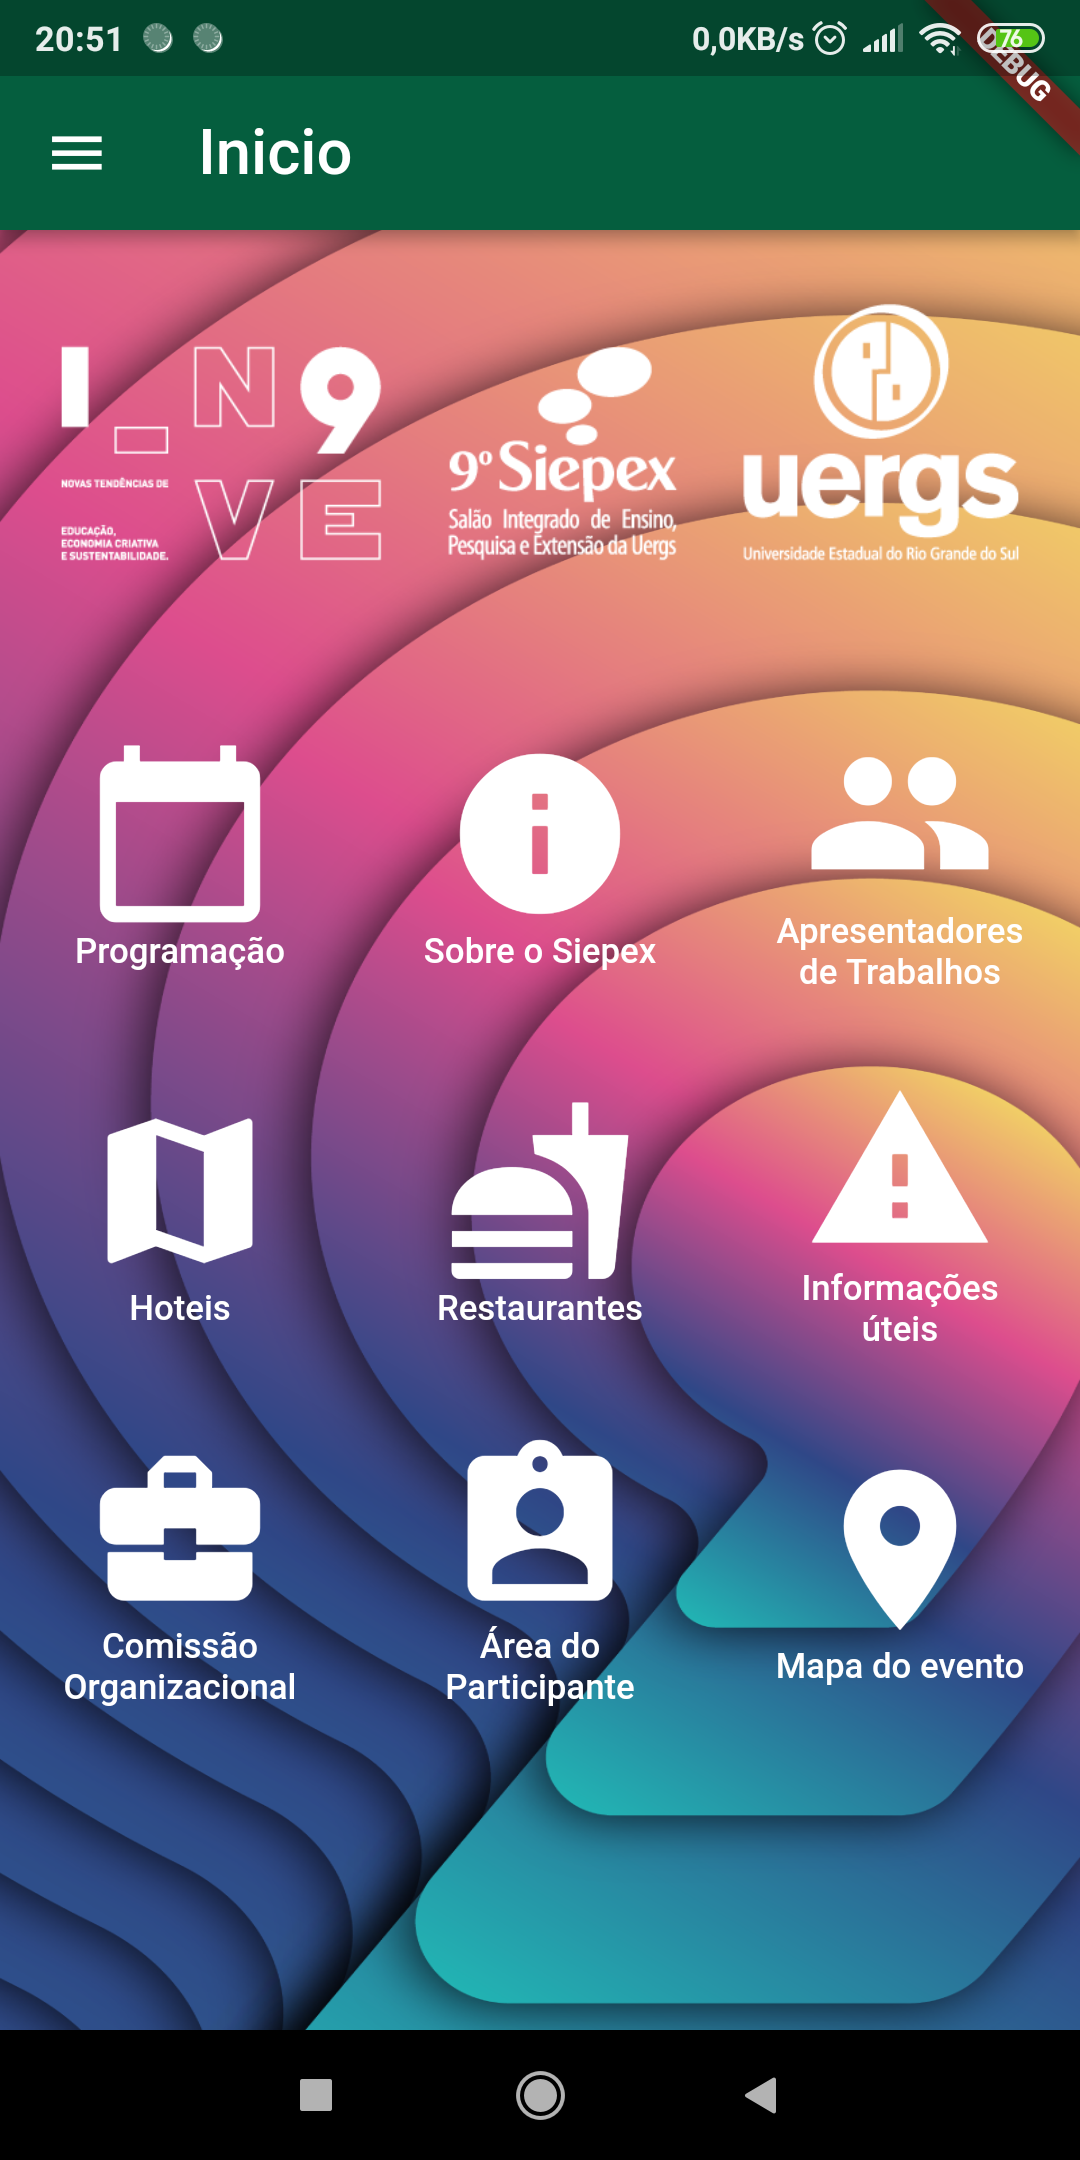
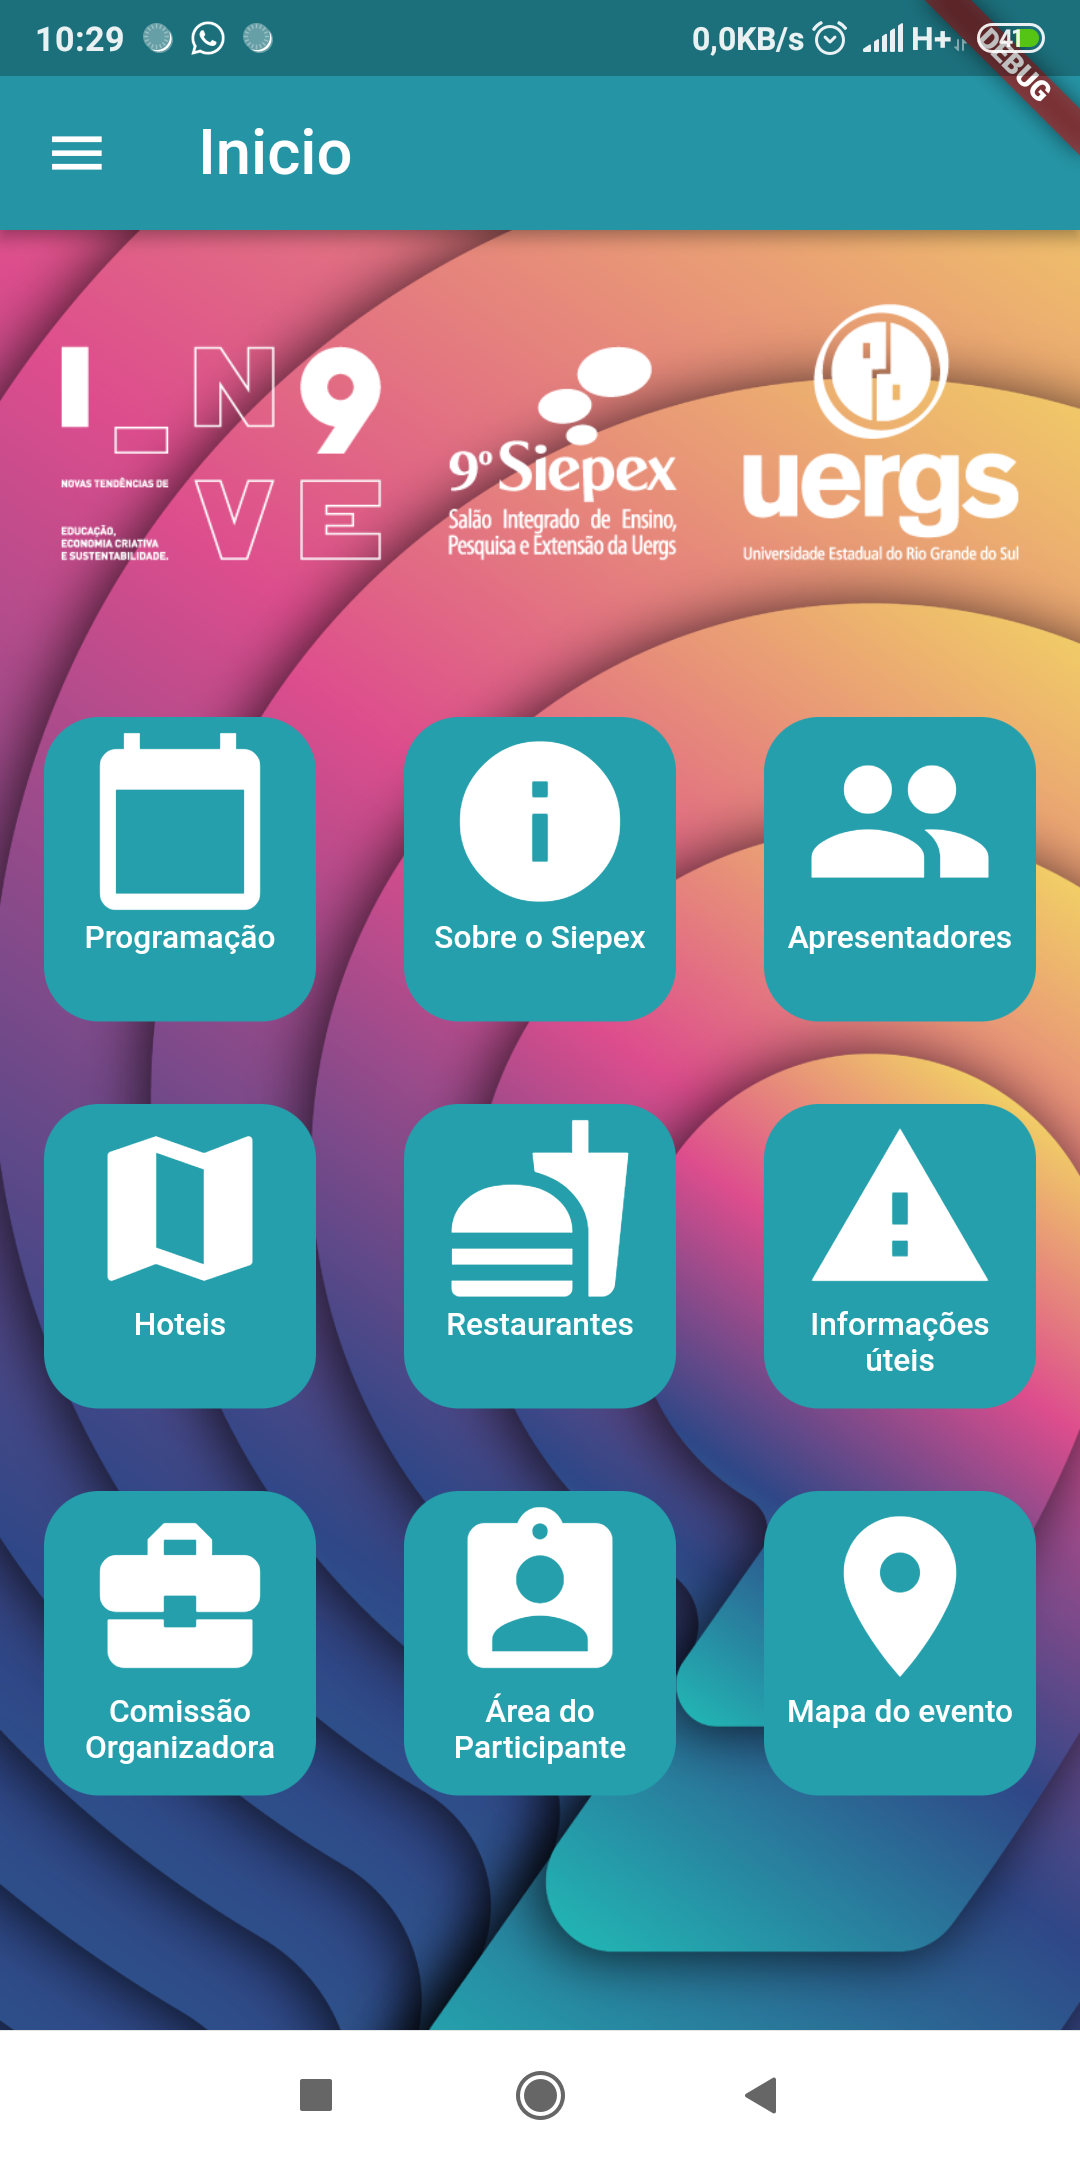
ajustes e prints

diff --git a/lib/src/info/info.dart b/lib/src/info/info.dart
@@ -91,11 +91,12 @@ class InfoPage extends StatelessWidget {
             }
           },
           child: Container(
-              // height: PercentageHelper.height(17, context),
-              // width: PercentageHelper.width(35, context),
               padding: EdgeInsets.all(10),
               decoration: BoxDecoration(
-                  border: Border.all(color: Colors.black),
+                  boxShadow: [
+                    BoxShadow(
+                        color: Colors.black54, spreadRadius: 0.8, blurRadius: 2)
+                  ],
                   color: Color(0xff249FAB),
                   borderRadius: BorderRadius.circular(20)),
               child: Column(

diff --git a/lib/main.dart b/lib/main.dart
@@ -53,9 +53,9 @@ class MyApp extends StatelessWidget {
         primaryTextTheme: Typography(platform: TargetPlatform.iOS).white,
         textTheme: Typography(platform: TargetPlatform.iOS).white,
         // backgroundColor: Colors.green[30],
-        // pageTransitionsTheme: PageTransitionsTheme(builders: {
-        //   TargetPlatform.android: CupertinoPageTransitionsBuilder(),
-        // }),
+        pageTransitionsTheme: PageTransitionsTheme(builders: {
+          TargetPlatform.android: CupertinoPageTransitionsBuilder(),
+        }),
       ),
       // home: TabsPage(),
     );

diff --git a/lib/src/inicio/itemButton.dart b/lib/src/inicio/itemButton.dart
@@ -23,7 +23,10 @@ Widget itemButton(GridItem item, BuildContext context,
         width: PercentageHelper.width(30, context),
         padding: EdgeInsets.all(3),
         decoration: BoxDecoration(
-            border: Border.all(color: Colors.black),
+            boxShadow: [
+              BoxShadow(color: Colors.black54, spreadRadius: 0.8, blurRadius: 2)
+            ],
+            // border: Border.all(color: Colors.black),
             color: Color(0xff249FAB),
             borderRadius: BorderRadius.circular(20)),
         child: Column(

diff --git a/lib/src/eventos/minicursos/minicursosView.dart b/lib/src/eventos/minicursos/minicursosView.dart
@@ -73,7 +73,9 @@ class _ListagemMinicursosState extends State<ListagemMinicursos> {
     print(viewMinicursos);
     if (carregou == false) {
       return Container(
-        child: SpinKitPouringHourglass(
+        //pourinhourglass
+        //fadingfour
+        child: SpinKitWave(
           color: Colors.blueAccent,
           size: 200,
         ),

diff --git a/lib/src/eventos/visitas/visitasView.dart b/lib/src/eventos/visitas/visitasView.dart
@@ -73,7 +73,7 @@ class _ListagemVisitasState extends State<ListagemVisitas> {
     print(viewVisitas);
     if (carregou == false) {
       return Container(
-        child: SpinKitPouringHourglass(
+        child: SpinKitWave(
           color: Colors.blueAccent,
           size: 200,
         ),

diff --git a/lib/src/inicio/inicio.dart b/lib/src/inicio/inicio.dart
@@ -20,6 +20,7 @@ class InicioPage extends StatelessWidget {
   Widget corpo(BuildContext context) {
     return Scaffold(
         appBar: AppBar(
+          elevation: 10,
           title: Text('Inicio'),
         ),
         drawer: HomeParticipante(),

diff --git a/android/app/src/main/java/com/example/siepex/MainActivity.java b/android/app/src/main/java/com/example/siepex/MainActivity.java
@@ -1,4 +1,4 @@
-package com.example.siepex;
+package br.edu.uergs.siepexApp;
 
 import android.os.Bundle;
 import io.flutter.app.FlutterActivity;
